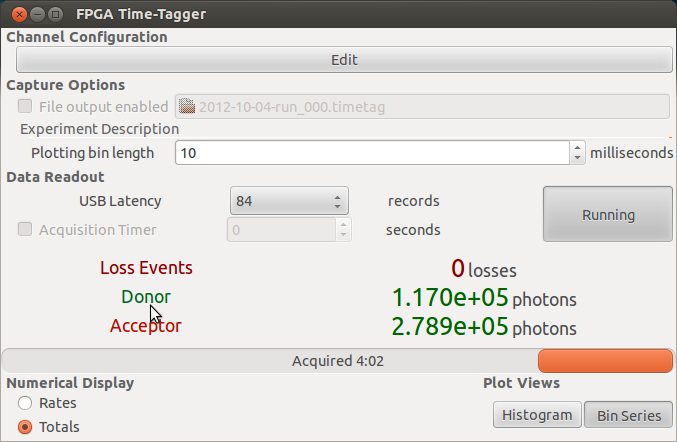
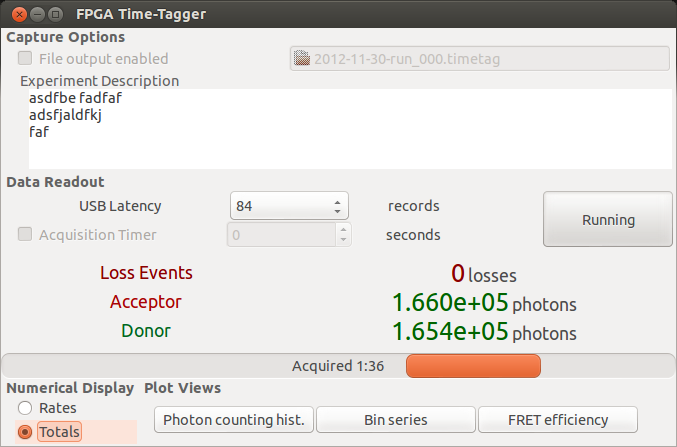
Work

diff --git a/basic-usage/basic-usage.tex b/basic-usage/basic-usage.tex
@@ -6,7 +6,8 @@ the system application list as shown in \ref{Fig:Dash}.
 \section{Timetagger UI}
 
 The timetagger interface, {\tt timetag\_ui}, is a graphical frontend to
-the device's timetagging functionality.
+the device's timetagging functionality. The main window is shown in Figure 
+\ref{Fig:MainWindow}.
 
 \begin{figure}
   \center
@@ -15,5 +16,70 @@ the device's timetagging functionality.
   \label{Fig:MainWindow}
 \end{figure}
 
-The main window the timetagger interface display 
+The first time the interface is started it will likely be necessary to
+look over the channel configuration. This is acheived through the
+``Edit channel configuration...'' entry in the ``File'' menu. This
+will display the dialog box shown in Figure
+\ref{Fig:ChannelConfig}. Here one can enable and disable acquisition
+on individual channels, as well as choose descriptive labels and colors
+for each. These settings are stored in a configuration file in the
+user's home directory.
 
+\begin{figure}
+  \center
+  \includegraphics[scale=0.5]{channel-editor.png}
+  \caption{The channel configuration window of {\tt timetag\_ui}.}
+  \label{Fig:ChannelConfig}
+\end{figure}
+
+To begin data acquisition, simply enter a file name, ensure that file
+output is enabled by checking the box bearing the label ``File output
+enabled,'' and press the button labelled ``Stopped''. Additionally one
+can enter an experiment description to be saved alongside the data and
+optionally set a time after which acquisition will be stopped.
+
+After beginning data acquisition, the instantaneous count rates will
+be shown next to their respective channel names. Alternatively, one
+can view the total event count by selecting the ``Totals'' radio
+button in the lower left corner of the window.
+
+In addition to these numerical indicators, {\tt timetag\_ui} provides
+several plot views available through the buttons on the lower right
+corner of the main window. Moreover, each of these windows have a
+variety of configuration options available by clicking on the small
+triangle on the lower left hand corner.
+
+The photon counting histogram shows a histogram of the number of
+photon arrivals to occur in a given bin time (configurable as the
+``Bin Time'') for each channel. The size of the histogram bins is
+configured with the ``Histogram bin width'' setting.
+
+\begin{figure}
+  \center
+  \includegraphics[scale=0.5]{count-hist.png}
+  \caption{The photon count histogram view}
+  \label{Fig:CountHist}
+\end{figure}
+
+The bin series view shows a time series of the binned events. The bin
+width and total plotted duration is configurable, as is the Y axis
+range.
+
+\begin{figure}
+  \center
+  \includegraphics[scale=0.5]{bin-series.png}
+  \caption{The bin series view}
+  \label{Fig:BinSeries}
+\end{figure}
+
+The FRET histogram view offers a convenient way to visualize the state
+of an on-going FRET experiment with a simple binning/threshold
+analysis. Here the acceptor and donor channels are configurable, as
+well as the bin time, threshold, and number of histogram bins.
+
+\begin{figure}
+  \center
+  \includegraphics[scale=0.5]{fret-hist.png}
+  \caption{The FRET histogram view}
+  \label{Fig:FretHist}
+\end{figure}

diff --git a/installing/installing.tex b/installing/installing.tex
@@ -74,3 +74,23 @@ allowing one to start the application from, e.g., Ubuntu's Dash (see
 
 If all of this went smoothly, proceed to the next Chapter where we
 will describe basic usage of the software.
+
+\section{Installing {\tt photon-tools}}
+
+While not strictly necessary for operation of the timetagger, the {\tt
+photon-tools} package provides a number of useful utilities for the
+analysis of photon timestamp data. This includes basic visualization,
+correlation analysis, and modelling software.
+
+Installation is quite straightforward,
+
+\begin{verbatim}
+$ sudo apt-get install python python-numpy python-scipy python-matplotlib \
+  build-essential cython libboost-all-dev
+$ git clone git://github.com/bgamari/photon-tools.git
+$ cd photon-tools
+$ ./install.sh
+\end{verbatim}
+
+Usage of the individual tools is described in the {\tt readme.mkd}
+file provided in the {\tt photon-tools} directory.

diff --git a/theory/theory.tex b/theory/theory.tex
@@ -104,6 +104,9 @@ with the {\tt netcat} utility,
 $ nc -u /tmp/timetag.sock
 \end{verbatim}
 
+A description of the commands supported by this interface is available
+with the {\tt help} command.
+
 \section{\tt timetag\_ui}
 
 {\tt timetag\_ui} is a Python GTK+ interface to the timetagging
